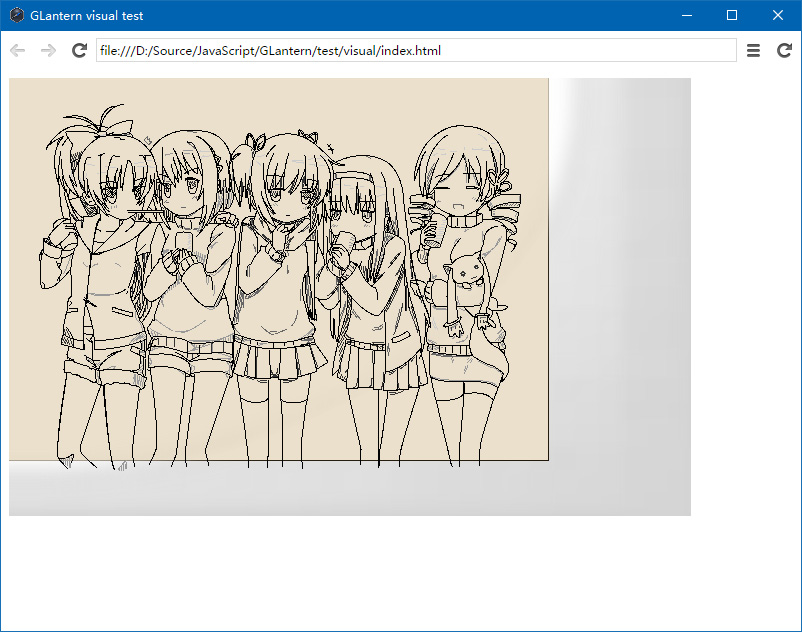
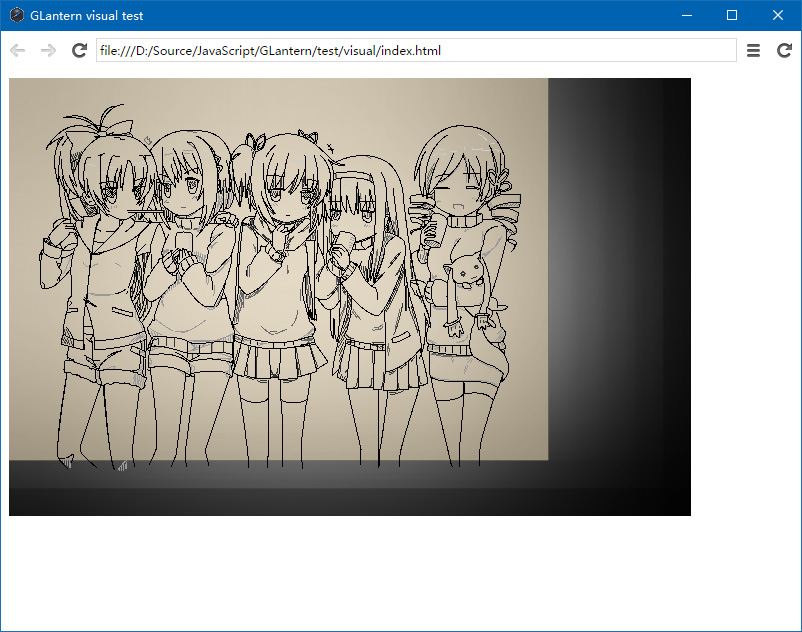
Did a workaround on color issue, and updated screenshot.

diff --git a/src/flash/display/DisplayObject.ts b/src/flash/display/DisplayObject.ts
@@ -30,7 +30,9 @@ export abstract class DisplayObject extends EventDispatcher implements IBitmapDr
         this._transform = new Transform();
         if (root !== null) {
             this._rawRenderTarget = root.worldRenderer.createRenderTarget();
+            this._renderTargetWithAlpha = root.worldRenderer.createRenderTarget();
         }
+        this._isRoot = root === null;
     }
 
     get alpha():number {
@@ -61,7 +63,9 @@ export abstract class DisplayObject extends EventDispatcher implements IBitmapDr
     }
 
     dispose():void {
-        console.warn("Calling DisplayObject.dispose().");
+        this._root.worldRenderer.releaseRenderTarget(this._renderTargetWithAlpha);
+        this._root.worldRenderer.releaseRenderTarget(this._rawRenderTarget);
+        this.filters = [];
     }
 
     enabled:boolean = true;
@@ -88,10 +92,10 @@ export abstract class DisplayObject extends EventDispatcher implements IBitmapDr
         if (hasFiltersBefore !== hasFiltersNow) {
             // Update filtered RenderTarget2D state.
             if (hasFiltersBefore) {
-                this._appliedRenderTarget.dispose();
-                this._appliedRenderTarget = null;
+                this._filteredRenderTarget.dispose();
+                this._filteredRenderTarget = null;
             } else if (hasFiltersNow) {
-                this._appliedRenderTarget = this._root.worldRenderer.createRenderTarget();
+                this._filteredRenderTarget = this._root.worldRenderer.createRenderTarget();
             }
         }
     }
@@ -243,29 +247,22 @@ export abstract class DisplayObject extends EventDispatcher implements IBitmapDr
     }
 
     render(renderer:WebGLRenderer):void {
-        if (this.visible) {
+        if (this.visible && this.alpha > 0) {
             this.__preprocess(renderer);
             this.__render(renderer);
-            this.__processFilters(renderer);
+            this.__postprocess(renderer);
+        } else {
+            this.outputRenderTarget.clear();
         }
     }
 
     get outputRenderTarget():RenderTarget2D {
-        return this.__shouldProcessFilters() ? this._appliedRenderTarget : this._rawRenderTarget;
+        return this.__shouldProcessFilters() ? this._filteredRenderTarget : this._rawRenderTarget;
     }
 
     protected abstract __update():void;
 
     protected abstract __render(renderer:WebGLRenderer):void;
-
-    protected __processFilters(renderer:WebGLRenderer):void {
-        if (this.__shouldProcessFilters()) {
-            var filterManager = renderer.filterManager;
-            filterManager.pushFilterGroup(this.filters);
-            filterManager.processFilters(renderer, this._rawRenderTarget, this._appliedRenderTarget, true);
-            filterManager.popFilterGroup();
-        }
-    }
 
     /**
      * Override this function to select the proper shader.
@@ -289,6 +286,15 @@ export abstract class DisplayObject extends EventDispatcher implements IBitmapDr
         });
         manager.currentShader.syncUniforms();
         renderer.setBlendMode(this.blendMode);
+    }
+
+    protected __postprocess(renderer:WebGLRenderer):void {
+        if (this.__shouldProcessFilters()) {
+            var filterManager = renderer.filterManager;
+            filterManager.pushFilterGroup(this.filters);
+            filterManager.processFilters(renderer, this._rawRenderTarget, this._filteredRenderTarget, true);
+            filterManager.popFilterGroup();
+        }
     }
 
     private __shouldProcessFilters():boolean {
@@ -316,6 +322,8 @@ export abstract class DisplayObject extends EventDispatcher implements IBitmapDr
     protected _filters:BitmapFilter[] = null;
     protected _transform:Transform = null;
     protected _rawRenderTarget:RenderTarget2D = null;
-    private _appliedRenderTarget:RenderTarget2D = null;
+    private _filteredRenderTarget:RenderTarget2D = null;
+    private _renderTargetWithAlpha:RenderTarget2D = null;
+    private _isRoot:boolean = false;
 
 }

diff --git a/test/visual/test-scripts/raw-madoka-group.js b/test/visual/test-scripts/raw-madoka-group.js
@@ -10,18 +10,19 @@ var Display = Object.create({
         return new GLantern.flash.filters.GlowFilter(lantern.renderer.shaderManager, a, b, c, d, e, f, g);
     },
     "createBlurFilter": function (a, b) {
-        return new GLantern.flash.filters.BlurFilter(lantern.renderer.shaderManager, a, b);
-        //var filter = new GLantern.webgl.filters.Blur2Filter(lantern.renderer.shaderManager);
-        //filter.strengthX = a;
-        //filter.strengthY = b;
-        //return filter;
+        //return new GLantern.flash.filters.BlurFilter(lantern.renderer.shaderManager, a, b);
+        var filter = new GLantern.webgl.filters.Blur2Filter(lantern.renderer.shaderManager);
+        //var filter = new GLantern.webgl.filters.BlurFilter(lantern.renderer.shaderManager);
+        filter.strengthX = a;
+        filter.strengthY = b;
+        return filter;
     }
 });
 
 (function () {
     var s, g;
 
-    g = Display.createShape(1);
+    g = Display.createShape(0.5);
     g.graphics.beginFill(0xffffff);
     g.graphics.drawRect(0, 0, 540, 383);
     g.graphics.endFill();
@@ -36,7 +37,7 @@ var Display = Object.create({
     g.graphics.drawEllipse(10, 16, 560, 380);
     g.graphics.endFill();
     //g.filters = [Display.createGlowFilter(0xFFFFFF, 0.5, 50, 50, 2, 6, false, false), Display.createBlurFilter(160, 160)];
-    g.filters = [Display.createGlowFilter(0xFFFFFF, 0.5, 50, 50, 2, 6, false, false), Display.createBlurFilter(2, 2)]; // for a better recognition
+    g.filters = [Display.createGlowFilter(0xFFFFFF, 0.5, 50, 50, 2, 6, false, false), Display.createBlurFilter(20, 20)]; // for a better visual effect
     //g.filters = [Display.createGlowFilter(0xFF00FF, 0.5, 10, 10, 2, 6, false, false)];
     //g.filters = [Display.createBlurFilter(160, 160)];
     //g.filters = [Display.createBlurFilter(50, 50)];

diff --git a/src/webgl/WebGLRenderer.ts b/src/webgl/WebGLRenderer.ts
@@ -230,6 +230,7 @@ export class WebGLRenderer implements IDisposable {
         if (this._isInitialized) {
             return;
         }
+        this._isInitialized = true;
         this._options = _util.deepClone(options);
 
         var canvas:HTMLCanvasElement = window.document.createElement("canvas");
@@ -248,9 +249,7 @@ export class WebGLRenderer implements IDisposable {
         glc.disable(gl.DEPTH_TEST);
         glc.disable(gl.CULL_FACE);
         glc.enable(gl.BLEND);
-        glc.blendEquation(gl.FUNC_ADD);
-        //glc.blendFunc(gl.SRC_ALPHA, gl.ONE_MINUS_SRC_ALPHA);
-        glc.blendFunc(gl.ONE, gl.ONE_MINUS_SRC_ALPHA);
+        this.setBlendMode(BlendMode.NORMAL);
 
         /*
          if (options.antialias) {
@@ -275,8 +274,6 @@ export class WebGLRenderer implements IDisposable {
         this.setRenderTarget(null);
 
         this.__initializeTessellator();
-        this._isInitialized = true;
-
     }
 
     /**
@@ -335,7 +332,7 @@ export class WebGLRenderer implements IDisposable {
     };
 
     private _currentRenderTarget:RenderTarget2D = null;
-    private _currentBlendMode:string = BlendMode.NORMAL;
+    private _currentBlendMode:string = null;
     private _inputTarget:RenderTarget2D = null;
     private _screenTarget:RenderTarget2D = null;
     private _filterManager:FilterManager = null;

diff --git a/src/webgl/filters/Blur2Filter.ts b/src/webgl/filters/Blur2Filter.ts
@@ -50,10 +50,12 @@ export class Blur2Filter extends FilterBase {
     }
 
     process(renderer:WebGLRenderer, input:RenderTarget2D, output:RenderTarget2D, clearOutput:boolean):void {
+        var passCoeff = 9;
+
         // See http://rastergrid.com/blog/2010/09/efficient-gaussian-blur-with-linear-sampling/
         var t1 = input, t2 = this._tempTarget;
         var t:RenderTarget2D;
-        for (var i = 0; i < this.pass * 9; ++i) {
+        for (var i = 0; i < this.pass * passCoeff; ++i) {
             RenderHelper.renderBuffered(renderer, t1, t2, ShaderID.BLUR2, true, (renderer:WebGLRenderer):void => {
                 var shader = <Blur2Shader>renderer.shaderManager.currentShader;
                 shader.setStrength(this.strengthX);
@@ -64,7 +66,7 @@ export class Blur2Filter extends FilterBase {
             t1 = t2;
             t2 = t;
         }
-        for (var i = 0; i < this.pass * 9; ++i) {
+        for (var i = 0; i < this.pass * passCoeff; ++i) {
             RenderHelper.renderBuffered(renderer, t1, t2, ShaderID.BLUR2, true, (renderer:WebGLRenderer):void => {
                 var shader = <Blur2Shader>renderer.shaderManager.currentShader;
                 shader.setStrength(this.strengthY);

diff --git a/src/flash/display/DisplayObjectContainer.ts b/src/flash/display/DisplayObjectContainer.ts
@@ -164,14 +164,17 @@ export abstract class DisplayObjectContainer extends InteractiveObject {
     }
 
     render(renderer:WebGLRenderer):void {
-        if (this.visible) {
+        if (this.visible && this.alpha > 0) {
             this.__preprocess(renderer);
             this.__render(renderer);
             for (var i = 0; i < this._children.length; ++i) {
-                this._children[i].render(renderer);
-                renderer.copyRenderTargetContent(this._children[i].outputRenderTarget, this._rawRenderTarget, false);
+                var child = this._children[i];
+                child.render(renderer);
+                renderer.copyRenderTargetContent(child.outputRenderTarget, this._rawRenderTarget, false);
             }
-            this.__processFilters(renderer);
+            this.__postprocess(renderer);
+        } else {
+            this.outputRenderTarget.clear();
         }
     }
 

diff --git a/src/webgl/graphics/SolidStrokeRenderer.ts b/src/webgl/graphics/SolidStrokeRenderer.ts
@@ -143,7 +143,7 @@ export class SolidStrokeRenderer extends StrokeRendererBase {
                     this._vertices.push(vertices[i]);
                 }
                 for (var i = 0; i < 4; i++) {
-                    this._colors.push(this._r, this._g, this._b, this._a);
+                    this._colors.push(this._r * this._a, this._g * this._a, this._b * this._a, this._a);
                 }
                 this._indices.push(cur, cur + 1, cur + 2, cur + 1, cur + 2, cur + 3);
                 this._hasDrawnAnything = true;

diff --git a/src/webgl/graphics/SolidFillRenderer.ts b/src/webgl/graphics/SolidFillRenderer.ts
@@ -202,7 +202,7 @@ export class SolidFillRenderer extends FillRendererBase {
             }
             j = 0;
             for (var i = 0; i < vertices.length; i += 3) {
-                colors.push(this._r, this._g, this._b, this._a);
+                colors.push(this._r * this._a, this._g * this._a, this._b * this._a, this._a);
                 indices.push(j);
                 j++;
             }
